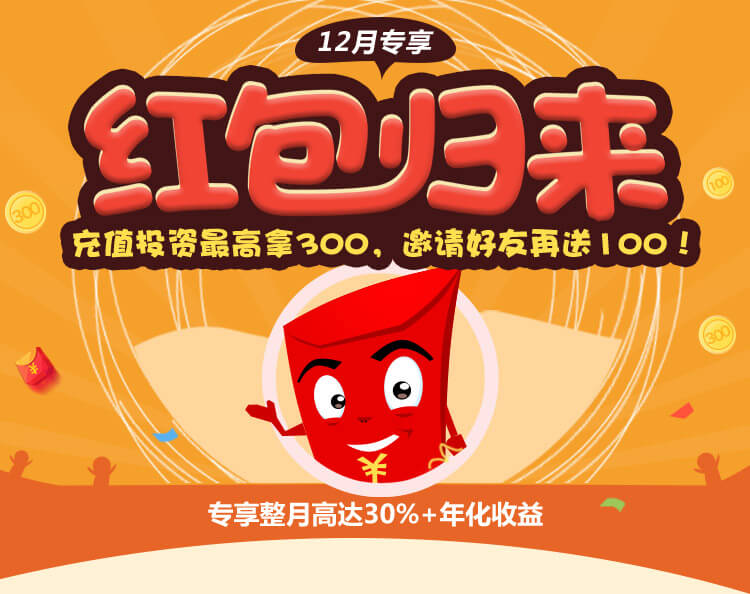
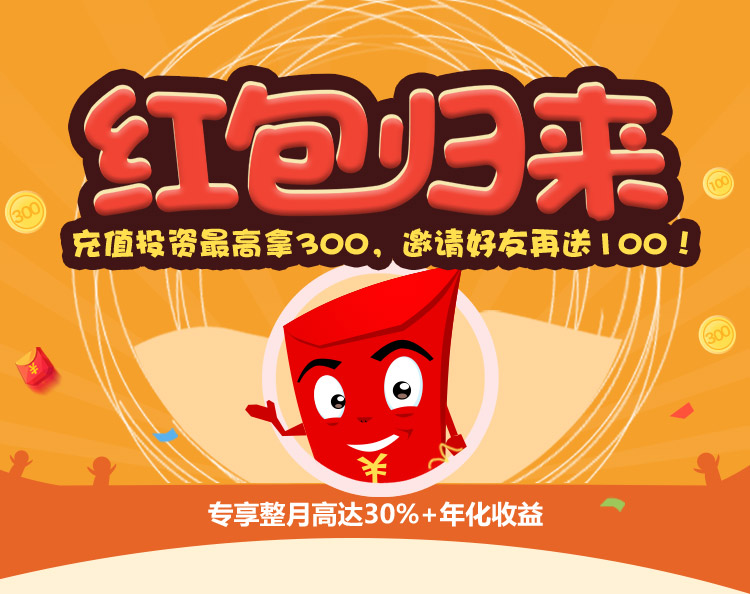
年终奖点赞提交

diff --git a/static/styles/mobile_activity/app_praise_reward.css b/static/styles/mobile_activity/app_praise_reward.css
@@ -1,1 +1,1 @@
-.body_wrap{width:100%}.body_wrap .praise_wrap{width:100%;position:relative}.body_wrap .praise_wrap .top_light{width:100%;display:block;position:absolute;top:0%;left:0%;z-index:1}.body_wrap .praise_wrap .i_want_reward{width:85.3%;display:block;position:absolute;top:3.3rem;left:7.35%;z-index:3}.body_wrap .praise_wrap .i_want_reward img{width:100%;display:block}.body_wrap .praise_wrap .i_want_reward .text{width:100%;text-align:center;padding-top:0.5rem;height:1.5rem;font-size:0.9rem;line-height:1rem;color:#fff}.body_wrap .praise_wrap .group_bg{position:absolute;top:-2.7rem;left:0%;z-index:2;width:100%}.body_wrap .praise_wrap .group_bg .main_wrap{width:100%;position:relative}.body_wrap .praise_wrap .group_bg .main_wrap .bg{width:100%;display:block}.body_wrap .praise_wrap .group_bg .main_wrap .phone{width:78%;height:2.5rem;background:#2a1b30;color:#fff;border-radius:0.7rem;border:none;text-align:center;margin:0.25rem auto;display:block;font-size:0.7rem;line-height:2.5rem}.body_wrap .praise_wrap .group_bg .main_wrap .button{width:78%;height:2.5rem;font-size:0.7rem;line-height:2.5rem;text-align:center;color:#ff75fc;background:url("/static/imgs/mobile_activity/app_praise_reward/input_bg.png") no-repeat;margin:1rem auto;background-size:100% 100%}.body_wrap .praise_wrap .group_bg .main_wrap .footer_bg{width:100%;display:block;position:fixed;left:0;bottom:0;z-index:2}@media screen and (max-height: 569px){.body_wrap .praise_wrap .group_bg .main_wrap .footer_bg{position:relative}}.body_wrap .praise_wrap .group_bg .main_wrap .footer_logo{position:fixed;bottom:0.8rem;left:41.2%;width:17.6%;display:block;z-index:3}@media screen and (max-height: 569px){.body_wrap .praise_wrap .group_bg .main_wrap .footer_logo{position:absolute}}.body_wrap .invitation_page{width:100%}.body_wrap .invitation_page .top_wrap{width:100%;display:block;position:relative}.body_wrap .invitation_page .top_wrap .fly_img{width:95.7%;display:block}.body_wrap .invitation_page .top_wrap .man{width:16%;display:block;margin-left:38.2%;position:absolute;left:0;top:25%;z-index:2}.body_wrap .invitation_page .top_wrap .worker{width:100%;display:block;position:absolute;left:0;top:0;z-index:2}.body_wrap .invitation_page .top_wrap .worker .text{color:#fff;text-align:center;width:100%;font-size:0.75rem;height:0.8rem;margin:0.5rem 0 1.7rem;line-height:0.8rem}.body_wrap .invitation_page .top_wrap .worker .work{width:81.7%;margin:0 auto;display:block}.body_wrap .invitation_page .operation_wrap{width:100%;background-image:url("/static/imgs/mobile_activity/app_praise_reward/invitation_bg.png");background-position:top center;background-size:100% auto;background-repeat:no-repeat;background-color:#4c3456;display:inline-block}.body_wrap .invitation_page .operation_wrap .reward_wrap{width:92%;margin:0 auto;display:block;height:2.75rem;border:2px #02f0fa solid;border-radius:0.75rem;position:relative}.body_wrap .invitation_page .operation_wrap .reward_wrap .gold{height:2.35rem;float:left;display:block;padding:0.4rem 0 0 0.3rem}.body_wrap .invitation_page .operation_wrap .reward_wrap .text{float:left;height:2.75rem;line-height:2.75rem;color:#fcdc3d;font-size:0.9rem;padding-left:0.2rem}.body_wrap .invitation_page .operation_wrap .reward_wrap .input_wrap{position:relative;width:45.3%;float:left;height:2.25rem}.body_wrap .invitation_page .operation_wrap .reward_wrap .input_wrap span.num_top{position:absolute;right:0;bottom:0;color:#02f0fa;font-size:0.35rem;line-height:1.125rem;display:none}.body_wrap .invitation_page .operation_wrap .reward_wrap input{width:100%;color:#fcdc3d;font-size:0.9rem;height:2.25rem;line-height:2.25rem;border:none;background:#3a2842;position:relative;top:0.25rem;border-radius:3px;text-align:center;left:0.55rem}.body_wrap .invitation_page .operation_wrap .reward_wrap .renovate{width:1.6rem;display:block;float:right;margin:0.7rem 3.3% 0 0}.body_wrap .invitation_page .operation_wrap .reward_wrap .renovate_rotate{-webkit-animation-name:renovate_ico;animation-name:renovate_ico;-webkit-animation-duration:3s;animation-duration:3s;-webkit-animation-timing-function:linear;animation-timing-function:linear;-webkit-animation-fill-mode:both;animation-fill-mode:both;-webkit-animation-iteration-count:infinite;animation-iteration-count:infinite}.body_wrap .invitation_page .praise_wrap{clear:both;width:92%;margin:1rem auto 0;display:block;height:2.75rem}.body_wrap .invitation_page .praise_wrap .praise{float:left;display:block;position:relative}.body_wrap .invitation_page .praise_wrap .praise .bg{display:block;height:2.75rem}.body_wrap .invitation_page .praise_wrap .praise .zan{width:20%;display:block;position:absolute;left:18.3%;top:0.45rem}.body_wrap .invitation_page .praise_wrap .praise .text{position:absolute;left:47.3%;top:0;height:2.75rem;line-height:2.55rem;color:#f96ff1;font-size:0.9rem}.body_wrap .invitation_page .praise_wrap .praise_right{float:right}.body_wrap .invitation_page .praise_wrap .praise_right .text{color:#e8b3f5}.body_wrap .invitation_page .title{width:100%;clear:both;line-height:1rem;height:1rem;font-size:0.75rem;color:#2a1b30;text-align:center;margin:0.85rem 0}.body_wrap .invitation_page .share_button{display:block;width:78%;height:2.5rem;font-size:0.7rem;line-height:2.5rem;text-align:center;color:#ff75fc;background:url("/static/imgs/mobile_activity/app_praise_reward/input_bg.png") no-repeat;margin:0rem auto;background-size:100% 100%}.body_wrap .invitation_page .now_use{display:block;width:78%;height:2.5rem;font-size:0.7rem;line-height:2.5rem;text-align:center;color:#ff75fc;background:url("/static/imgs/mobile_activity/app_praise_reward/input_bg.png") no-repeat;margin:1rem auto;background-size:100% 100%}.body_wrap .invitation_page .line{width:100%;text-align:center;height:1rem;font-size:0.65rem;line-height:1rem;color:#2a1b30;background:url("/static/imgs/mobile_activity/app_praise_reward/line.jpg") no-repeat center center;background-size:100% auto}.body_wrap .invitation_page .tab_wrap{width:100%;margin:0.375rem 0;display:inline-block;position:relative}.body_wrap .invitation_page .tab_wrap #mycarousel-prev{width:0.9rem;display:block;position:absolute;top:50%;left:0rem;padding-left:0.45rem;margin-top:-0.3875rem;z-index:99}.body_wrap .invitation_page .tab_wrap #mycarousel-prev img{display:block;width:100%}.body_wrap .invitation_page .tab_wrap #mycarousel-next{width:0.9rem;display:block;position:absolute;top:50%;right:0rem;padding-right:0.45rem;margin-top:-0.3875rem;z-index:99}.body_wrap .invitation_page .tab_wrap #mycarousel-next img{display:block;width:100%}.body_wrap .invitation_page .line_bottom{width:100%;height:1px;background:#2a1b30;clear:both}.body_wrap .invitation_page .title_text1{width:100%;color:#ebf;font-size:0.75rem;margin:0.85rem 0;line-height:0.8rem;text-align:center}.body_wrap .invitation_page .code_img{width:33.8%;display:block;margin:0 auto}.body_wrap .invitation_page .title_text2{width:100%;color:#ebf;font-size:0.75rem;margin:0.85rem 0 0;line-height:0.8rem;text-align:center}.body_wrap .invitation_page .footer_logo{width:17.6%;display:block;margin:0.85rem auto;padding-bottom:0.75rem}.body_wrap .share_wrap{width:100%;height:100%;position:fixed;left:0;top:0;z-index:99;background:rgba(0,0,0,0.5);display:none}.body_wrap .share_wrap .share_text{position:absolute;top:44%;left:1.1%;z-index:2;width:97.8%;display:block}.body_wrap .share_wrap .share_text .main{width:100%;position:relative;display:inline-block}.body_wrap .share_wrap .share_text .main img{width:100%;display:block}.body_wrap .share_wrap .share_text .main .text{text-align:center;color:#2a1b30;line-height:1rem;font-size:0.75rem;position:absolute;top:26%;z-index:3;left:0;width:100%}.body_wrap .share_wrap .share_img1{position:absolute;right:7.6%;top:2%;width:18.6%;z-index:2}.body_wrap .share_wrap .share_title1{position:absolute;left:52%;top:18%;z-index:2;font-size:0.6rem;height:1.25rem;color:#fff}.body_wrap .share_wrap ul{position:absolute;left:52%;top:18%;z-index:2;color:#fff;padding-top:2.5rem}.body_wrap .share_wrap ul li{height:1.75rem;line-height:1.25rem;padding-bottom:0.5rem}.body_wrap .share_wrap ul li .img{width:1.3rem;float:left}.body_wrap .share_wrap ul li .img img{height:1.25rem;display:block;padding:0.125rem 0}.body_wrap .share_wrap ul li span.text{float:left;font-size:0.6rem;height:1.25rem;display:block;margin-left:0.3rem}.body_wrap .shine_wrap{position:fixed;left:0;top:0;z-index:99;width:100%;height:100%;background:rgba(0,0,0,0.5);display:none}.body_wrap .shine_wrap .bg{width:100%;position:absolute;left:0;top:7%;display:block}.body_wrap .shine_wrap .close{width:9.3%;position:absolute;top:10%;right:4%;display:block}.body_wrap .shine_wrap .title{width:100%;position:absolute;top:19%;right:0;text-align:center;color:#fff;font-size:1rem;line-height:1.4rem}.body_wrap .shine_wrap .text{width:100%;text-align:center;position:absolute;top:75%;right:0;z-index:99;color:#fff;font-size:0.75rem;line-height:0.9rem}.body_wrap .friend_top{position:fixed;left:0;top:0;z-index:99;width:100%;display:none;height:100%;background:rgba(0,0,0,0.5)}.body_wrap .friend_top .main{position:absolute;left:0;top:50%;width:100%;margin:-1.6rem 0 0 0;text-align:center}.body_wrap .friend_top .main .text{padding:1rem;background:#ccc;color:#483153;line-height:1.2rem;font-size:0.9rem;border-radius:10px;width:80%;display:block;margin:0 auto;position:relative}.body_wrap .friend_top .main .text img{position:absolute;left:-0.75rem;top:-0.75rem;z-index:100;width:1.5rem;display:block}.body_wrap .step_me{display:none}.body_wrap .take_mine_reward{width:79.3%;margin:1rem auto;display:none}.body_wrap .take_mine_reward .phone{width:100%;height:2.5rem;text-align:center;background:#2a1b30;color:#fff;font-size:0.75rem;line-height:2.5rem;border:none;border-radius:1.4rem;display:block;margin:0 auto 0.875rem}.body_wrap .take_mine_reward .take_mine_button{width:100%;height:2.5rem;text-align:center;color:#f976f6;font-size:0.75rem;line-height:2.3rem;background:url("/static/imgs/mobile_activity/app_praise_reward/input_bg.png") no-repeat center center;display:block;background-size:100% 100%}.body_wrap .checkbox_wrap{width:100%;height:2rem;text-align:center;line-height:1rem;padding-bottom:1rem}.body_wrap .checkbox_wrap .checkbox{background:url("/static/imgs/mobile_activity/app_praise_reward/no_checkbox.jpg") no-repeat center left;height:1rem;background-size:auto 100%;padding-left:1.2rem}.body_wrap .checkbox_wrap .checkbox_select{background:url("/static/imgs/mobile_activity/app_praise_reward/checkbox.jpg") no-repeat center left;background-size:auto 100%}.body_wrap .checkbox_wrap span{height:1rem;line-height:1rem;font-size:0.75rem}.body_wrap .checkbox_wrap a{height:1rem;font-size:0.75rem;line-height:1rem}.jcarousel-skin-tango .jcarousel-clip-horizontal{display:block;overflow:hidden;position:relative;width:88%;display:inline-block;margin-left:6%;height:2rem}@media screen and (max-width: 1025px){.jcarousel-skin-tango .jcarousel-clip-horizontal{height:5.83rem}}@media screen and (max-width: 769px){.jcarousel-skin-tango .jcarousel-clip-horizontal{height:5rem}}@media screen and (max-width: 450px){.jcarousel-skin-tango .jcarousel-clip-horizontal{height:2.45rem}}@media screen and (max-width: 415px){.jcarousel-skin-tango .jcarousel-clip-horizontal{height:2.45rem}}@media screen and (max-width: 396px){.jcarousel-skin-tango .jcarousel-clip-horizontal{height:2.3rem}}@media screen and (max-width: 376px){.jcarousel-skin-tango .jcarousel-clip-horizontal{height:2.16rem}}@media screen and (max-width: 361px){.jcarousel-skin-tango .jcarousel-clip-horizontal{height:2.05rem}}@media screen and (max-width: 351px){.jcarousel-skin-tango .jcarousel-clip-horizontal{height:1.95rem}}@media screen and (max-width: 331px){.jcarousel-skin-tango .jcarousel-clip-horizontal{height:1.8rem}}.user_wrap{width:100%;display:inline-block;margin-left:6%}.user_wrap li{width:1.8rem;margin:0 0.3rem 0 0.3rem;height:1.8rem;float:left;display:block}@media screen and (max-width: 1025px){.user_wrap li{width:5.83rem;height:5.83rem}}@media screen and (max-width: 769px){.user_wrap li{width:5rem;height:5rem}}@media screen and (max-width: 450px){.user_wrap li{width:2.45rem;height:2.45rem}}@media screen and (max-width: 415px){.user_wrap li{width:2.45rem;height:2.45rem}}@media screen and (max-width: 396px){.user_wrap li{width:2.3rem;height:2.3rem}}@media screen and (max-width: 376px){.user_wrap li{width:2.16rem;height:2.16rem}}@media screen and (max-width: 361px){.user_wrap li{width:2.05rem;margin:0 0.3rem 0}}@media screen and (max-width: 351px){.user_wrap li{width:1.95rem;margin:0 0.3rem 0}}@media screen and (max-width: 341px){.user_wrap li{width:1.95rem;margin:0 0.27rem 0}}@media screen and (max-width: 331px){.user_wrap li{width:1.8rem;margin:0 0.27rem 0}}.user_wrap li .user{width:100%;display:block}@-webkit-keyframes renovate_ico{0%{-webkit-transfrom:rotate(0deg)}50%{-webkit-transform:rotate(180deg)}100%{-webkit-transform:rotate(360deg)}}@keyframes renovate_ico{0%{transfrom:rotate(0deg)}50%{transform:rotate(180deg)}100%{transform:rotate(360deg)}}
+.body_wrap{width:100%}.body_wrap .praise_wrap{width:100%;position:relative}.body_wrap .praise_wrap .top_light{width:100%;display:block;position:absolute;top:0%;left:0%;z-index:1}.body_wrap .praise_wrap .i_want_reward{width:85.3%;display:block;position:absolute;top:3.3rem;left:7.35%;z-index:3}.body_wrap .praise_wrap .i_want_reward img{width:100%;display:block}.body_wrap .praise_wrap .i_want_reward .text{width:100%;text-align:center;padding-top:0.5rem;height:1.5rem;font-size:0.9rem;line-height:1rem;color:#fff}.body_wrap .praise_wrap .group_bg{position:absolute;top:-2.7rem;left:0%;z-index:2;width:100%}.body_wrap .praise_wrap .group_bg .main_wrap{width:100%;position:relative}.body_wrap .praise_wrap .group_bg .main_wrap .bg{width:100%;display:block}.body_wrap .praise_wrap .group_bg .main_wrap .phone{width:78%;height:2.5rem;background:#2a1b30;color:#fff;border-radius:0.7rem;border:none;text-align:center;margin:0.25rem auto;display:block;font-size:0.7rem;line-height:2.5rem}.body_wrap .praise_wrap .group_bg .main_wrap .button{width:78%;height:2.5rem;font-size:0.7rem;line-height:2.5rem;text-align:center;color:#ff75fc;background:url("/static/imgs/mobile_activity/app_praise_reward/input_bg.png") no-repeat;margin:1rem auto;background-size:100% 100%}.body_wrap .praise_wrap .group_bg .main_wrap .footer_bg{width:100%;display:block;position:relative;left:0;bottom:0;z-index:2}@media screen and (max-device-height: 481px){.body_wrap .praise_wrap .group_bg .main_wrap .footer_bg{position:relative}}.body_wrap .praise_wrap .group_bg .main_wrap .footer_logo{position:absolute;bottom:0.8rem;left:41.2%;width:17.6%;display:block;z-index:3}@media screen and (max-device-height: 481px){.body_wrap .praise_wrap .group_bg .main_wrap .footer_logo{position:absolute}}.body_wrap .invitation_page{width:100%}.body_wrap .invitation_page .top_wrap{width:100%;display:block;position:relative}.body_wrap .invitation_page .top_wrap .fly_img{width:95.7%;display:block}.body_wrap .invitation_page .top_wrap .man{width:16%;display:block;margin-left:38.2%;position:absolute;left:0;top:25%;z-index:2}.body_wrap .invitation_page .top_wrap .worker{width:100%;display:block;position:absolute;left:0;top:0;z-index:2}.body_wrap .invitation_page .top_wrap .worker .text{color:#fff;text-align:center;width:100%;font-size:0.75rem;height:0.8rem;margin:0.5rem 0 1.7rem;line-height:0.8rem}.body_wrap .invitation_page .top_wrap .worker .work{width:81.7%;margin:0 auto;display:block}.body_wrap .invitation_page .operation_wrap{width:100%;background-image:url("/static/imgs/mobile_activity/app_praise_reward/invitation_bg.png");background-position:top center;background-size:100% auto;background-repeat:no-repeat;background-color:#4c3456;display:inline-block}.body_wrap .invitation_page .operation_wrap .reward_wrap{width:92%;margin:0 auto;display:block;height:2.75rem;border:2px #02f0fa solid;border-radius:0.75rem;position:relative}.body_wrap .invitation_page .operation_wrap .reward_wrap .gold{height:2.35rem;float:left;display:block;padding:0.4rem 0 0 0.3rem}.body_wrap .invitation_page .operation_wrap .reward_wrap .text{float:left;height:2.75rem;line-height:2.75rem;color:#fcdc3d;font-size:0.9rem;padding-left:0.2rem}.body_wrap .invitation_page .operation_wrap .reward_wrap .input_wrap{position:relative;width:45.3%;float:left;height:2.25rem}.body_wrap .invitation_page .operation_wrap .reward_wrap .input_wrap span.num_top{position:absolute;right:0;bottom:0;color:#02f0fa;font-size:0.35rem;line-height:1.125rem;display:none}.body_wrap .invitation_page .operation_wrap .reward_wrap input{width:100%;color:#fcdc3d;font-size:0.9rem;height:2.25rem;line-height:2.25rem;border:none;background:#3a2842;position:relative;top:0.25rem;border-radius:3px;text-align:center;left:0.55rem}.body_wrap .invitation_page .operation_wrap .reward_wrap .renovate{width:1.6rem;display:block;float:right;margin:0.7rem 3.3% 0 0}.body_wrap .invitation_page .operation_wrap .reward_wrap .renovate_rotate{-webkit-animation-name:renovate_ico;animation-name:renovate_ico;-webkit-animation-duration:3s;animation-duration:3s;-webkit-animation-timing-function:linear;animation-timing-function:linear;-webkit-animation-fill-mode:both;animation-fill-mode:both;-webkit-animation-iteration-count:infinite;animation-iteration-count:infinite}.body_wrap .invitation_page .praise_wrap{clear:both;width:92%;margin:1rem auto 0;display:block;height:2.75rem}.body_wrap .invitation_page .praise_wrap .praise{float:left;display:block;position:relative}.body_wrap .invitation_page .praise_wrap .praise .bg{display:block;height:2.75rem}.body_wrap .invitation_page .praise_wrap .praise .zan{width:20%;display:block;position:absolute;left:18.3%;top:0.45rem}.body_wrap .invitation_page .praise_wrap .praise .text{position:absolute;left:47.3%;top:0;height:2.75rem;line-height:2.55rem;color:#f96ff1;font-size:0.9rem}.body_wrap .invitation_page .praise_wrap .praise_right{float:right}.body_wrap .invitation_page .praise_wrap .praise_right .text{color:#e8b3f5}.body_wrap .invitation_page .title{width:100%;clear:both;line-height:1rem;height:1rem;font-size:0.75rem;color:#2a1b30;text-align:center;margin:0.85rem 0}.body_wrap .invitation_page .share_button{display:block;width:78%;height:2.5rem;font-size:0.7rem;line-height:2.5rem;text-align:center;color:#ff75fc;background:url("/static/imgs/mobile_activity/app_praise_reward/input_bg.png") no-repeat;margin:0rem auto;background-size:100% 100%}.body_wrap .invitation_page .now_use{display:block;width:78%;height:2.5rem;font-size:0.7rem;line-height:2.5rem;text-align:center;color:#ff75fc;background:url("/static/imgs/mobile_activity/app_praise_reward/input_bg.png") no-repeat;margin:1rem auto;background-size:100% 100%}.body_wrap .invitation_page .line{width:100%;text-align:center;height:1rem;font-size:0.65rem;line-height:1rem;color:#2a1b30;background:url("/static/imgs/mobile_activity/app_praise_reward/line.jpg") no-repeat center center;background-size:100% auto}.body_wrap .invitation_page .tab_wrap{width:100%;margin:0.375rem 0;display:inline-block;position:relative}.body_wrap .invitation_page .tab_wrap #mycarousel-prev{width:0.9rem;display:block;position:absolute;top:50%;left:0rem;padding-left:0.45rem;margin-top:-0.3875rem;z-index:99}.body_wrap .invitation_page .tab_wrap #mycarousel-prev img{display:block;width:100%}.body_wrap .invitation_page .tab_wrap #mycarousel-next{width:0.9rem;display:block;position:absolute;top:50%;right:0rem;padding-right:0.45rem;margin-top:-0.3875rem;z-index:99}.body_wrap .invitation_page .tab_wrap #mycarousel-next img{display:block;width:100%}.body_wrap .invitation_page .line_bottom{width:100%;height:1px;background:#2a1b30;clear:both}.body_wrap .invitation_page .title_text1{width:100%;color:#ebf;font-size:0.75rem;margin:0.85rem 0;line-height:0.8rem;text-align:center}.body_wrap .invitation_page .code_img{width:33.8%;display:block;margin:0 auto}.body_wrap .invitation_page .title_text2{width:100%;color:#ebf;font-size:0.75rem;margin:0.85rem 0 0;line-height:0.8rem;text-align:center}.body_wrap .invitation_page .footer_logo{width:17.6%;display:block;margin:0.85rem auto;padding-bottom:0.75rem}.body_wrap .share_wrap{width:100%;height:100%;position:fixed;left:0;top:0;z-index:99;background:rgba(0,0,0,0.5);display:none}.body_wrap .share_wrap .share_text{position:absolute;top:44%;left:1.1%;z-index:2;width:97.8%;display:block}.body_wrap .share_wrap .share_text .main{width:100%;position:relative;display:inline-block}.body_wrap .share_wrap .share_text .main img{width:100%;display:block}.body_wrap .share_wrap .share_text .main .text{text-align:center;color:#2a1b30;line-height:1rem;font-size:0.75rem;position:absolute;top:26%;z-index:3;left:0;width:100%}.body_wrap .share_wrap .share_img1{position:absolute;right:7.6%;top:2%;width:18.6%;z-index:2}.body_wrap .share_wrap .share_title1{position:absolute;left:52%;top:18%;z-index:2;font-size:0.6rem;height:1.25rem;color:#fff}.body_wrap .share_wrap ul{position:absolute;left:52%;top:18%;z-index:2;color:#fff;padding-top:2.5rem}.body_wrap .share_wrap ul li{height:1.75rem;line-height:1.25rem;padding-bottom:0.5rem}.body_wrap .share_wrap ul li .img{width:1.3rem;float:left}.body_wrap .share_wrap ul li .img img{height:1.25rem;display:block;padding:0.125rem 0}.body_wrap .share_wrap ul li span.text{float:left;font-size:0.6rem;height:1.25rem;display:block;margin-left:0.3rem}.body_wrap .shine_wrap{position:fixed;left:0;top:0;z-index:99;width:100%;height:100%;background:rgba(0,0,0,0.5);display:none}.body_wrap .shine_wrap .bg{width:100%;position:absolute;left:0;top:7%;display:block}.body_wrap .shine_wrap .close{width:9.3%;position:absolute;top:10%;right:4%;display:block}.body_wrap .shine_wrap .title{width:100%;position:absolute;top:19%;right:0;text-align:center;color:#fff;font-size:1rem;line-height:1.4rem}.body_wrap .shine_wrap .text{width:100%;text-align:center;position:absolute;top:75%;right:0;z-index:99;color:#fff;font-size:0.75rem;line-height:0.9rem}.body_wrap .friend_top{position:fixed;left:0;top:0;z-index:99;width:100%;display:none;height:100%;background:rgba(0,0,0,0.5)}.body_wrap .friend_top .main{position:absolute;left:0;top:50%;width:100%;margin:-1.6rem 0 0 0;text-align:center}.body_wrap .friend_top .main .text{padding:1rem;background:#ccc;color:#483153;line-height:1.2rem;font-size:0.9rem;border-radius:10px;width:80%;display:block;margin:0 auto;position:relative}.body_wrap .friend_top .main .text img{position:absolute;left:-0.75rem;top:-0.75rem;z-index:100;width:1.5rem;display:block}.body_wrap .step_me{display:none}.body_wrap .take_mine_reward{width:79.3%;margin:1rem auto;display:none}.body_wrap .take_mine_reward .phone{width:100%;height:2.5rem;text-align:center;background:#2a1b30;color:#fff;font-size:0.75rem;line-height:2.5rem;border:none;border-radius:1.4rem;display:block;margin:0 auto 0.875rem}.body_wrap .take_mine_reward .take_mine_button{width:100%;height:2.5rem;text-align:center;color:#f976f6;font-size:0.75rem;line-height:2.3rem;background:url("/static/imgs/mobile_activity/app_praise_reward/input_bg.png") no-repeat center center;display:block;background-size:100% 100%}.body_wrap .checkbox_wrap{width:100%;height:2rem;text-align:center;line-height:1rem;padding-bottom:1rem}.body_wrap .checkbox_wrap .checkbox{background:url("/static/imgs/mobile_activity/app_praise_reward/no_checkbox.jpg") no-repeat center left;height:1rem;background-size:auto 100%;padding-left:1.2rem}.body_wrap .checkbox_wrap .checkbox_select{background:url("/static/imgs/mobile_activity/app_praise_reward/checkbox.jpg") no-repeat center left;background-size:auto 100%}.body_wrap .checkbox_wrap span{height:1rem;line-height:1rem;font-size:0.75rem}.body_wrap .checkbox_wrap a{height:1rem;font-size:0.75rem;line-height:1rem}.jcarousel-skin-tango .jcarousel-clip-horizontal{display:block;overflow:hidden;position:relative;width:88%;display:inline-block;margin-left:6%;height:2rem}@media screen and (max-width: 1025px){.jcarousel-skin-tango .jcarousel-clip-horizontal{height:5.83rem}}@media screen and (max-width: 769px){.jcarousel-skin-tango .jcarousel-clip-horizontal{height:5rem}}@media screen and (max-width: 450px){.jcarousel-skin-tango .jcarousel-clip-horizontal{height:2.45rem}}@media screen and (max-width: 415px){.jcarousel-skin-tango .jcarousel-clip-horizontal{height:2.45rem}}@media screen and (max-width: 396px){.jcarousel-skin-tango .jcarousel-clip-horizontal{height:2.3rem}}@media screen and (max-width: 376px){.jcarousel-skin-tango .jcarousel-clip-horizontal{height:2.16rem}}@media screen and (max-width: 361px){.jcarousel-skin-tango .jcarousel-clip-horizontal{height:2.05rem}}@media screen and (max-width: 351px){.jcarousel-skin-tango .jcarousel-clip-horizontal{height:1.95rem}}@media screen and (max-width: 331px){.jcarousel-skin-tango .jcarousel-clip-horizontal{height:1.8rem}}.user_wrap{width:100%;display:inline-block;margin-left:6%}.user_wrap li{width:1.8rem;margin:0 0.3rem 0 0.3rem;height:1.8rem;float:left;display:block}@media screen and (max-width: 1025px){.user_wrap li{width:5.83rem;height:5.83rem}}@media screen and (max-width: 769px){.user_wrap li{width:5rem;height:5rem}}@media screen and (max-width: 450px){.user_wrap li{width:2.45rem;height:2.45rem}}@media screen and (max-width: 415px){.user_wrap li{width:2.45rem;height:2.45rem}}@media screen and (max-width: 396px){.user_wrap li{width:2.3rem;height:2.3rem}}@media screen and (max-width: 376px){.user_wrap li{width:2.16rem;height:2.16rem}}@media screen and (max-width: 361px){.user_wrap li{width:2.05rem;margin:0 0.3rem 0}}@media screen and (max-width: 351px){.user_wrap li{width:1.95rem;margin:0 0.3rem 0}}@media screen and (max-width: 341px){.user_wrap li{width:1.95rem;margin:0 0.27rem 0}}@media screen and (max-width: 331px){.user_wrap li{width:1.8rem;margin:0 0.27rem 0}}.user_wrap li .user{width:100%;display:block}@-webkit-keyframes renovate_ico{0%{-webkit-transfrom:rotate(0deg)}50%{-webkit-transform:rotate(180deg)}100%{-webkit-transform:rotate(360deg)}}@keyframes renovate_ico{0%{transfrom:rotate(0deg)}50%{transform:rotate(180deg)}100%{transform:rotate(360deg)}}

diff --git a/static/scss/mobile_activity/app_praise_reward.sass b/static/scss/mobile_activity/app_praise_reward.sass
@@ -65,20 +65,22 @@
         .footer_bg
           width: 100%
           display: block
-          position: fixed
+          //position: fixed
+          position: relative
           left: 0
           bottom: 0
           z-index: 2
-          @media screen and (max-height: 569px)
+          @media screen and (max-device-height: 481px)
             position: relative
         .footer_logo
-          position: fixed
+          //position: fixed
+          position: absolute
           bottom: 0.8rem
           left: 41.2%
           width: 17.6%
           display: block
           z-index: 3
-          @media screen and (max-height: 569px)
+          @media screen and (max-device-height: 481px)
             position: absolute
   .invitation_page
     width: 100%

diff --git a/static/scripts/mobile_activity/app_praise_reward.js b/static/scripts/mobile_activity/app_praise_reward.js
@@ -379,9 +379,12 @@ var Zepto=function(){function L(t){return null==t?String(t):j[S.call(t)]||"objec
 			$('.friend_top .text').text('请点击，我同意网利宝年终奖活动规则');
 			$('.friend_top').fadeIn();
 		}
-
 	});
 	/*领取我的年终奖结束*/
+
+	$('.friend_top .close').click(function(){
+		$('.friend_top').hide();
+	})
 
     var jsApiList = ['scanQRCode', 'onMenuShareAppMessage','onMenuShareTimeline','onMenuShareQQ'];
 	org.ajax({

diff --git a/static/src/mobile_activity/app_praise_reward.js b/static/src/mobile_activity/app_praise_reward.js
@@ -160,9 +160,12 @@
 			$('.friend_top .text').text('请点击，我同意网利宝年终奖活动规则');
 			$('.friend_top').fadeIn();
 		}
-
 	});
 	/*领取我的年终奖结束*/
+
+	$('.friend_top .close').click(function(){
+		$('.friend_top').hide();
+	})
 
     var jsApiList = ['scanQRCode', 'onMenuShareAppMessage','onMenuShareTimeline','onMenuShareQQ'];
 	org.ajax({
